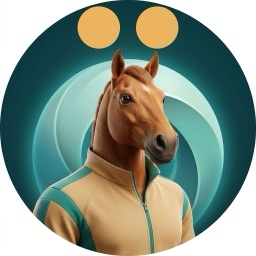
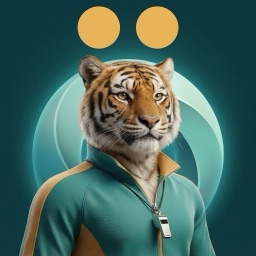
Аватары: восточноазиатская внешность, персонаж из знака — мужской и женский, без коня
Его правка 25.10: «А чистый азиат не нужен? И стилизуй лого персонаж под мужской
и женский. Из мужских убери лошадь, никто не хочет быть лошадью». Мужских 11 +
mn, женских 12 + fn (персонаж из знака своего образа — по умолчанию); «n» —
общий, у кого образа нет. Новое — Gemini.

Claude-Session: https://claude.ai/code/session_01Bc3Np85Bd2kz1coA2xUgTW

diff --git a/index.html b/index.html
@@ -8058,9 +8058,13 @@ function имяТренера(){ var me=myData()||{}; return String(me.coach_nam
    лицом, Gemini). Не выбрано — «n» у всех, с образом и без. */
 /* 25.10, его итог: «верни то что сделал в самом начале и добавь разнообразие рас и животных еще» —
    11 на образ (четыре 3D-персонажа разной внешности, шесть животных, робот) и общий «n» по умолчанию */
-var АВ_НА_ОБРАЗ=11, АВ_КОД=/^[mf](?:[1-9]|1[01])$/;
-function аватарСвой(k, пол){ return k==='n' || (АВ_КОД.test(k||'') && k.charAt(0)===пол); }
-function аватарКод(me){ me=me||{}; var k=me.coach_av||''; if(k==='n' || (АВ_КОД.test(k) && k.charAt(0)===(me.coach_sex||k.charAt(0)))) return k; return 'n'; }
+/* 25.10, его правка: «чистый азиат не нужен? И стилизуй лого персонаж под мужской и женский. Из мужских убери лошадь» —
+   мужских 11, женских 12, последний — персонаж из знака своего образа (mn / fn), он по умолчанию;
+   «n» — общий нейтральный, только у тех, кто образ не выбирал */
+var АВ_НА_ОБРАЗ={m:11, f:12};
+function аватарСвой(k, пол){ var м=/^([mf])(\d{1,2}|n)$/.exec(k||''); return !!м && м[1]===пол && (м[2]==='n' || (+м[2]>=1 && +м[2]<=АВ_НА_ОБРАЗ[пол])); }
+function аватарКод(me){ me=me||{}; var пол=me.coach_sex==='f'?'f':(me.coach_sex==='m'?'m':''), k=me.coach_av||'';
+  if(!пол) return 'n'; return аватарСвой(k, пол) ? k : пол+'n'; }
 function аватарТренера(me){ var k=аватарКод(me||myData()||{}); return k ? 'img/av/'+k+'.jpg' : 'img/wb-mark-128.png'; }
 function аватарHTML(src, cls){ var лицо=/\/av\//.test(src); return '<img src="'+src+'" alt=""'+(лицо?' class="avface'+(cls?' '+cls:'')+'"':(cls?' class="'+cls+'"':''))+'>'; }
 function тренерКарточкаНадо(){
@@ -8083,7 +8087,7 @@ function тренерПример(){
 }
 function openTren(изКарточки){
   var me=myData()||{};
-  ТР={step:1,name:String(me.coach_name||''),sex:me.coach_sex==='f'?'f':'m',av:аватарКод(me),voice:VOICEHINT[me.voice]&&me.voice?me.voice:'standard',
+  ТР={step:1,name:String(me.coach_name||''),sex:me.coach_sex==='f'?'f':'m',av:(аватарКод(me)==='n' ? (me.coach_sex==='f'?'fn':'mn') : аватарКод(me)),voice:VOICEHINT[me.voice]&&me.voice?me.voice:'standard',
       addr:me.addr==='vy'?'vy':(me.addr==='ty'?'ty':(me.voice||me.coach_at?'ty':'vy')),изКарточки:!!изКарточки};
   renderTren();
   var m=document.getElementById('trenm'); if(m) m.classList.add('show');
@@ -8104,8 +8108,8 @@ function renderTren(){
       '<div class="trchips">'+ТРЕНЕР_ИМЕНА.map(function(x){ return '<button type="button" data-trname="'+x+'" aria-pressed="'+(ТР.name===x)+'">'+x+'</button>'; }).join('')+'</div>';
   } else if(n===2){
     h+='<h3 class="trh" id="trh">Выберите образ тренера</h3><p class="trp">Мужчина или женщина — влияет только на то, как тренер говорит о себе: «записал» или «записала». Нормы считаются по вашей анкете.</p>'+
-      '<div class="trgrid">'+[['m','Мужчина','«Записал»'],['f','Женщина','«Записала»']].map(function(x){ return '<button type="button" class="tropt" data-trsex="'+x[0]+'" aria-pressed="'+(ТР.sex===x[0])+'"><span class="trava3" style="width:56px;height:56px">'+аватарHTML('img/av/'+(ТР.sex===x[0]&&/^[mf]/.test(ТР.av)?ТР.av:x[0]+'1')+'.jpg')+'</span><b>'+x[1]+'</b><span>'+x[2]+'</span></button>'; }).join('')+'</div>'+
-      '<span class="fmlab travlab">ВЫБЕРИТЕ АВАТАР</span><div class="travgrid">'+Array.apply(null,{length:АВ_НА_ОБРАЗ}).map(function(_, i){ return ТР.sex+(i+1); }).concat(['n']).map(function(k, i){
+      '<div class="trgrid">'+[['m','Мужчина','«Записал»'],['f','Женщина','«Записала»']].map(function(x){ return '<button type="button" class="tropt" data-trsex="'+x[0]+'" aria-pressed="'+(ТР.sex===x[0])+'"><span class="trava3" style="width:56px;height:56px">'+аватарHTML('img/av/'+(ТР.sex===x[0]&&/^[mf]/.test(ТР.av)?ТР.av:x[0]+'n')+'.jpg')+'</span><b>'+x[1]+'</b><span>'+x[2]+'</span></button>'; }).join('')+'</div>'+
+      '<span class="fmlab travlab">ВЫБЕРИТЕ АВАТАР</span><div class="travgrid">'+Array.apply(null,{length:АВ_НА_ОБРАЗ[ТР.sex]}).map(function(_, i){ return ТР.sex+(i+1); }).concat([ТР.sex+'n']).map(function(k, i){
         return '<button type="button" class="travbtn" data-trav="'+k+'" aria-pressed="'+(ТР.av===k)+'" aria-label="Аватар '+(i+1)+'">'+аватарHTML('img/av/'+k+'.jpg')+'</button>'; }).join('')+'</div>';
   } else if(n===3){
     h+='<h3 class="trh" id="trh">Выберите характер тренера</h3><p class="trp">Ниже — как '+esc(имя)+' ответит, если вы напишете «плов 350 г».</p>'+
@@ -8120,7 +8124,7 @@ function renderTren(){
 }
 function тренерСохранить(){
   var me=myData()||{}, сейчас=new Date().toISOString();
-  me.coach_name=ТР.name.trim().slice(0,24); me.coach_sex=ТР.sex; me.coach_av=(аватарСвой(ТР.av, ТР.sex)?ТР.av:'n'); me.addr=ТР.addr; me.coach_at=сейчас;
+  me.coach_name=ТР.name.trim().slice(0,24); me.coach_sex=ТР.sex; me.coach_av=(аватарСвой(ТР.av, ТР.sex)?ТР.av:ТР.sex+'n'); me.addr=ТР.addr; me.coach_at=сейчас;
   if(ТР.voice && ТР.voice!==me.voice){ me.voice=ТР.voice; me.voice_at=сейчас; }
   gset('me', me);
   if(DB) DB.doc('state/me').set({me:me, at:сейчас}).catch(function(){});
@@ -8134,7 +8138,7 @@ document.getElementById('trenm').addEventListener('click', function(e){
   var b=e.target.closest('[data-tr],[data-trname],[data-trsex],[data-trvoice],[data-traddr],[data-trav]'); if(!b) return;
   if(b.dataset.trav){ ТР.av=b.dataset.trav; renderTren(); haptic('light'); return; }
   if(b.dataset.trname){ ТР.name=b.dataset.trname; renderTren(); haptic('light'); return; }
-  if(b.dataset.trsex){ ТР.sex=b.dataset.trsex; if(!аватарСвой(ТР.av, ТР.sex)) ТР.av='n'; renderTren(); haptic('light'); return; }
+  if(b.dataset.trsex){ ТР.sex=b.dataset.trsex; if(!аватарСвой(ТР.av, ТР.sex)) ТР.av=ТР.sex+'n'; renderTren(); haptic('light'); return; }
   if(b.dataset.trvoice){ ТР.voice=b.dataset.trvoice; renderTren(); haptic('light'); return; }
   if(b.dataset.traddr){ ТР.addr=b.dataset.traddr; renderTren(); haptic('light'); return; }
   var a=b.dataset.tr;

diff --git a/tg/test-trener-pod-sebya.js b/tg/test-trener-pod-sebya.js
@@ -37,9 +37,9 @@ const ЦЕЛЬ = { text: '75 кг к январю', wt: 'down', rate: -0.5, from
       дано(/Выберите образ тренера/.test(await лист.innerText()), тема + ': шаг 2 — образ');
       await page.click('#trenm [data-trsex="f"]');
       /* 24.10: аватар — шесть на образ, выбранный уходит в профиль и в чат */
-      дано((await page.locator('#trenm [data-trav]').count()) === 12 && (await page.getAttribute('#trenm [data-trav="n"]', 'aria-pressed')) === 'true', тема + ': 11 аватаров образа и общий нейтральный — он по умолчанию');
+      дано((await page.locator('#trenm [data-trav]').count()) === 13 && (await page.getAttribute('#trenm [data-trav="fn"]', 'aria-pressed')) === 'true', тема + ': 12 женских и персонаж из знака — он по умолчанию');
       await page.click('#trenm [data-trsex="m"]');
-      дано((await page.getAttribute('#trenm [data-trav="n"]', 'aria-pressed')) === 'true', тема + ': нейтральный остаётся при смене образа');
+      дано((await page.locator('#trenm [data-trav]').count()) === 12 && (await page.getAttribute('#trenm [data-trav="mn"]', 'aria-pressed')) === 'true', тема + ': у мужского 11 и свой персонаж из знака');
       await page.click('#trenm [data-trsex="f"]');
       await page.click('#trenm [data-trav="f3"]');
       дано((await page.getAttribute('#trenm [data-trav="f3"]', 'aria-pressed')) === 'true', тема + ': выбран аватар f3');
